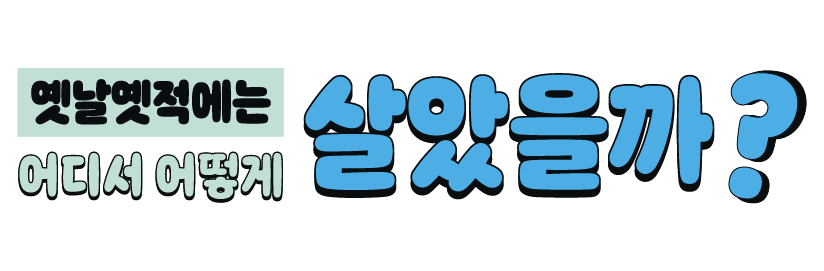
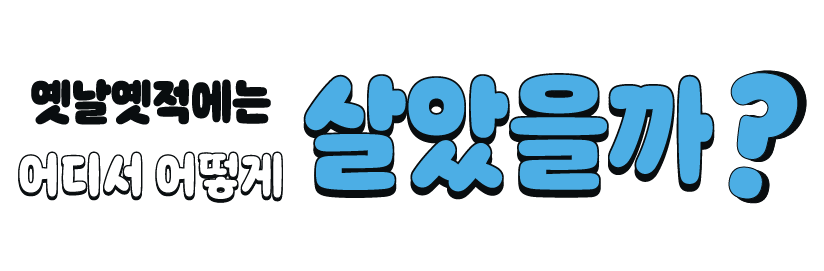
copyright 내용, 색 통일, 콘텐츠 배너, 타이틀, 하위 콘텐츠 버튼 일러 수정

Changed region(s): [[0.0, 0.2362, 0.3641, 0.5314], [0.0, 0.5609, 0.3641, 0.738]]

diff --git a/contents/style/style-index.css b/contents/style/style-index.css
@@ -128,25 +128,25 @@ i{
 
 #copyright{
     width: auto;
-    color: darkgreen;
+    color: darkslategray;
 }
 .Bt1{
     transition: .1s ease-in;
-    background-image: url(../style/button1.jpg);
+    background-image: url(../style/button1_new.jpg);
     background-size: cover;
     background-position: center;
 }
 
 .Bt2{
     transition: .1s ease-in;
-    background-image: url(../style/button2.jpg);
+    background-image: url(../style/button2_new.jpg);
     background-size: cover;
     background-position: center;
 }
 
 .Bt3{
     transition: .1s ease-in;
-    background-image: url(../style/button3.jpg);
+    background-image: url(../style/button3_new.jpg);
     background-size: cover;
     background-position: center;
 }

diff --git a/contents/v02-nineroad/index.html b/contents/v02-nineroad/index.html
@@ -31,7 +31,7 @@
         <div class="gap"></div>
     </div>
     
-    <div id="footer"><div id="copyright">Copyright©2021, 세종특별자치시교육청교육원. All Rights Reserved.</div></div>
+    <div id="footer"><div id="copyright">Copyright©2021, 세종특별자치시교육청교육원 유아교육부. All Rights Reserved.</div></div>
     
     </body>
 </html>

diff --git a/contents/vr02-hanok/index.html b/contents/vr02-hanok/index.html
@@ -31,7 +31,7 @@
         <div class="gap"></div>
     </div>
     
-    <div id="footer"><div id="copyright">Copyright©2021, 세종특별자치시교육청교육원. All Rights Reserved.</div></div>
+    <div id="footer"><div id="copyright">Copyright©2021, 세종특별자치시교육청교육원 유아교육부. All Rights Reserved.</div></div>
     
     </body>
 </html>

diff --git a/contents/vr03-market/index.html b/contents/vr03-market/index.html
@@ -31,7 +31,7 @@
         <div class="gap"></div>
     </div>
     
-    <div id="footer"><div id="copyright">Copyright©2021, 세종특별자치시교육청교육원. All Rights Reserved.</div></div>
+    <div id="footer"><div id="copyright">Copyright©2021, 세종특별자치시교육청교육원 유아교육부. All Rights Reserved.</div></div>
     
     </body>
 </html>

diff --git a/contents/vr02-hanok/intro.html b/contents/vr02-hanok/intro.html
@@ -47,7 +47,7 @@
              
          </div>
         <div id="footer">
-         <div id="copyright">Copyright©2021, 세종특별자치시교육청교육원. All Rights Reserved.</div>
+         <div id="copyright">Copyright©2021, 세종특별자치시교육청교육원 유아교육부. All Rights Reserved.</div>
          </div>
           
       </div>

diff --git a/contents/vr02-hanok/main.html b/contents/vr02-hanok/main.html
@@ -47,7 +47,7 @@
              
          </div>
         <div id="footer">
-         <div id="copyright">Copyright©2021, 세종특별자치시교육청교육원. All Rights Reserved.</div>
+         <div id="copyright">Copyright©2021, 세종특별자치시교육청교육원 유아교육부. All Rights Reserved.</div>
          </div>
           
       </div>

diff --git a/contents/vr02-hanok/questions.html b/contents/vr02-hanok/questions.html
@@ -47,7 +47,7 @@
              
          </div>
         <div id="footer">
-         <div id="copyright">Copyright©2021, 세종특별자치시교육청교육원. All Rights Reserved.</div>
+         <div id="copyright">Copyright©2021, 세종특별자치시교육청교육원 유아교육부. All Rights Reserved.</div>
          </div>
           
       </div>

diff --git a/contents/vr03-market/intro.html b/contents/vr03-market/intro.html
@@ -47,7 +47,7 @@
              
          </div>
         <div id="footer">
-         <div id="copyright">Copyright©2021, 세종특별자치시교육청교육원. All Rights Reserved.</div>
+         <div id="copyright">Copyright©2021, 세종특별자치시교육청교육원 유아교육부. All Rights Reserved.</div>
          </div>
           
       </div>

diff --git a/contents/vr03-market/main.html b/contents/vr03-market/main.html
@@ -47,7 +47,7 @@
              
          </div>
         <div id="footer">
-         <div id="copyright">Copyright©2021, 세종특별자치시교육청교육원. All Rights Reserved.</div>
+         <div id="copyright">Copyright©2021, 세종특별자치시교육청교육원 유아교육부. All Rights Reserved.</div>
          </div>
           
       </div>

diff --git a/contents/vr03-market/questions.html b/contents/vr03-market/questions.html
@@ -47,7 +47,7 @@
              
          </div>
         <div id="footer">
-         <div id="copyright">Copyright©2021, 세종특별자치시교육청교육원. All Rights Reserved.</div>
+         <div id="copyright">Copyright©2021, 세종특별자치시교육청교육원 유아교육부. All Rights Reserved.</div>
          </div>
           
       </div>

diff --git a/contents/vr02-hanok/sytle/style.css b/contents/vr02-hanok/sytle/style.css
@@ -3,6 +3,6 @@ body{
     background-size: cover;
     height: 100vh;
     background-repeat:no-repeat;
-    background-color: #c1dfd7;
+    background-color: #927647;
     background-position: center;
 }

diff --git a/contents/vr03-market/style/style.css b/contents/vr03-market/style/style.css
@@ -3,6 +3,6 @@ body{
     background-size: cover;
     height: 100vh;
     background-repeat:no-repeat;
-    background-color: #f7f4e5;
+    background-color: #fff5dc;
     background-position: center;
 }
